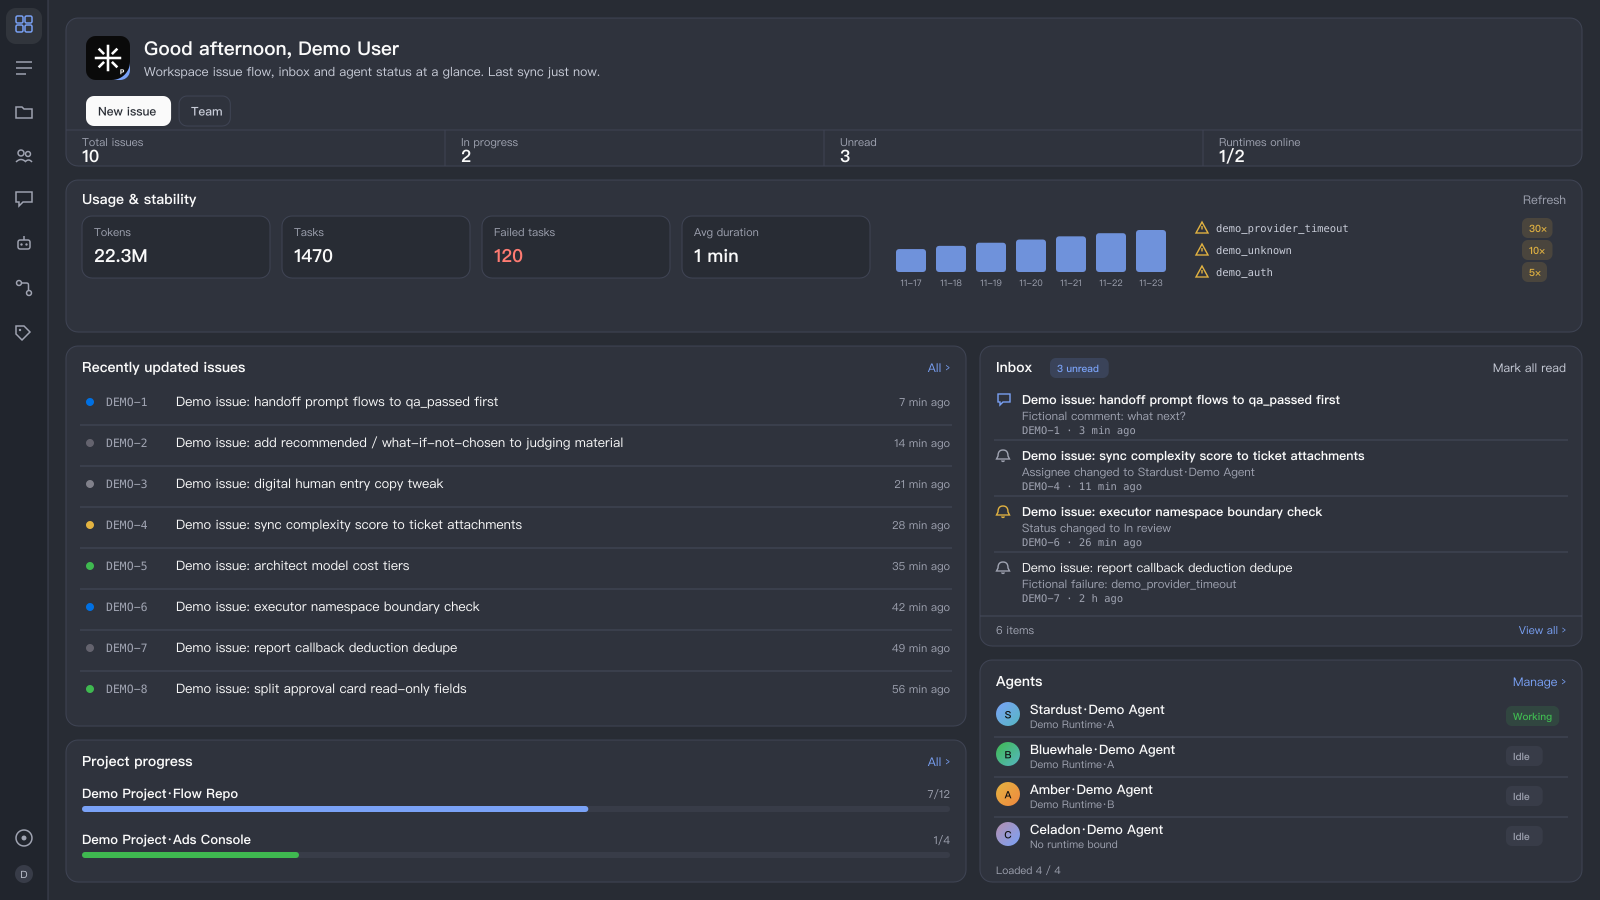
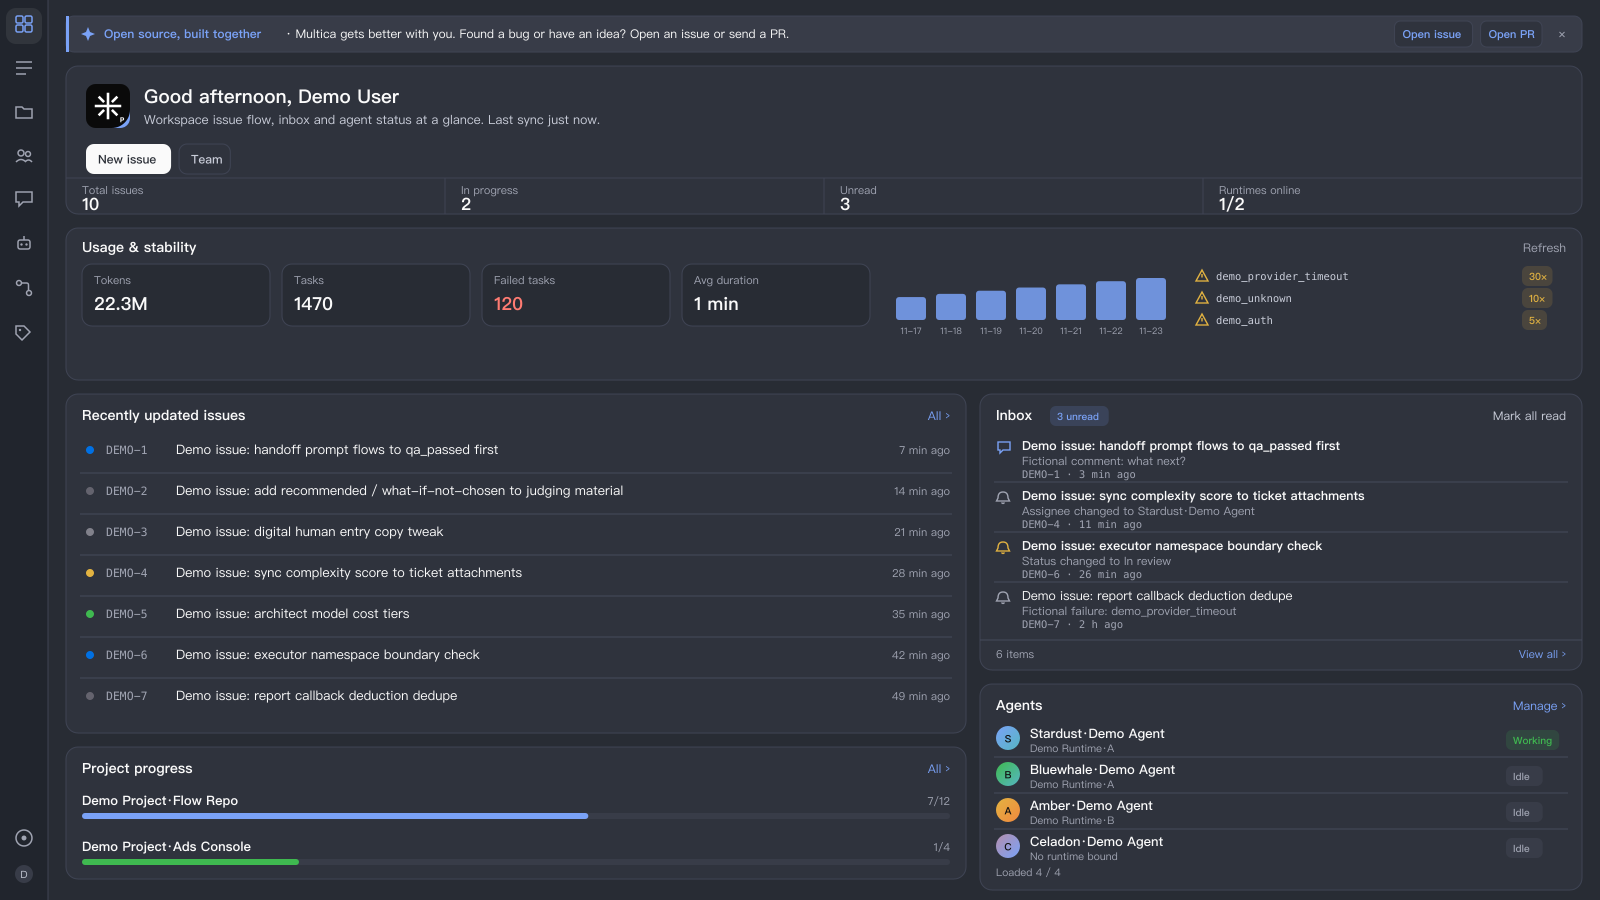
feat(overview): 概览页新增可关闭的 GitHub 共创横幅（v0.3.12）
样式与 agent-usage 共创横幅一致：提 Issue / 提 PR 入口 + ✕ 关闭；
关闭状态经 connections.preferences RPC 持久化到 daemon 侧
connections.json，重启后不再显示。同步双语文案、文档与脱敏媒体。

diff --git a/client/workbench/CommunityBanner.tsx b/client/workbench/CommunityBanner.tsx
@@ -1,0 +1,117 @@
+import { t } from "./i18n";
+import { openExternalUrl, useRpc } from "@getpaseo/plugin/client";
+import { Icon } from "@getpaseo/plugin/client/ui";
+import { useState } from "react";
+import { Pressable, Text, View } from "react-native";
+import { preferencesSaveRpc } from "../../shared/contracts";
+import { useUi } from "./bits";
+import { useWorkbench } from "./context";
+
+const REPOSITORY_URL = "https://github.com/CasonMo/paseo-multica";
+const ISSUE_URL = `${REPOSITORY_URL}/issues/new`;
+const PULL_REQUEST_URL = `${REPOSITORY_URL}/pulls`;
+
+function openCommunityLink(url: string) {
+  void openExternalUrl(url).catch((error) => {
+    console.error("Failed to open Multica community link", error);
+  });
+}
+
+export function CommunityBanner() {
+  const { theme, compact, connections, reloadConnections, toast } = useWorkbench();
+  const ui = useUi(theme, compact);
+  const savePrefs = useRpc(preferencesSaveRpc);
+  const [dismissing, setDismissing] = useState(false);
+  if (!connections || connections.coCreateDismissed) return null;
+
+  const dismiss = async () => {
+    if (dismissing) return;
+    setDismissing(true);
+    try {
+      await savePrefs({ coCreateDismissed: true });
+      await reloadConnections();
+    } catch {
+      toast.error(t("Community.8"));
+    } finally {
+      setDismissing(false);
+    }
+  };
+
+  return (
+    <View
+      style={{
+        flexDirection: "row",
+        alignItems: "center",
+        flexWrap: "wrap",
+        gap: 8,
+        backgroundColor: ui.c.surface2,
+        borderColor: ui.c.border,
+        borderLeftColor: ui.c.accent,
+        borderWidth: 1,
+        borderLeftWidth: 3,
+        borderRadius: 8,
+        paddingHorizontal: 12,
+        paddingVertical: 8,
+      }}
+    >
+      <View style={{ flex: 1, minWidth: compact ? "100%" : 240, flexDirection: "row", alignItems: "center", gap: 8 }}>
+        <Icon name="Sparkles" size={15} color={ui.c.accent} />
+        <Text style={{ flex: 1, fontSize: 12, color: ui.c.fg, lineHeight: 18 }}>
+          <Text style={{ color: ui.c.accent, fontWeight: "700" }}>{t("Community.1")}</Text>
+          {` · ${t("Community.2")}`}
+        </Text>
+      </View>
+      <View style={{ flexDirection: "row", alignItems: "center", gap: 8, flexWrap: "wrap" }}>
+        <Pressable
+          accessibilityRole="link"
+          accessibilityLabel={t("Community.5")}
+          hitSlop={6}
+          onPress={() => openCommunityLink(ISSUE_URL)}
+          style={({ pressed }) => [
+            {
+              minHeight: 34,
+              justifyContent: "center",
+              paddingHorizontal: 8,
+              paddingVertical: 5,
+              borderRadius: 6,
+              backgroundColor: ui.c.surface1,
+            },
+            pressed && ui.s.pressed,
+          ]}
+        >
+          <Text style={{ fontSize: 11, fontWeight: "600", color: ui.c.accent }}>{t("Community.3")}</Text>
+        </Pressable>
+        <Pressable
+          accessibilityRole="link"
+          accessibilityLabel={t("Community.6")}
+          hitSlop={6}
+          onPress={() => openCommunityLink(PULL_REQUEST_URL)}
+          style={({ pressed }) => [
+            {
+              minHeight: 34,
+              justifyContent: "center",
+              paddingHorizontal: 8,
+              paddingVertical: 5,
+              borderRadius: 6,
+              backgroundColor: ui.c.surface1,
+            },
+            pressed && ui.s.pressed,
+          ]}
+        >
+          <Text style={{ fontSize: 11, fontWeight: "600", color: ui.c.accent }}>{t("Community.4")}</Text>
+        </Pressable>
+      </View>
+      <Pressable
+        accessibilityRole="button"
+        accessibilityLabel={t("Community.7")}
+        accessibilityState={{ disabled: dismissing }}
+        disabled={dismissing}
+        hitSlop={8}
+        onPress={() => void dismiss()}
+        style={{ minWidth: 28, minHeight: 28, alignItems: "center", justifyContent: "center", paddingHorizontal: 4, paddingVertical: 2 }}
+      >
+        <Text style={{ fontSize: 12, color: ui.c.muted }}>✕</Text>
+      </Pressable>
+    </View>
+  );
+}

diff --git a/server/store.ts b/server/store.ts
@@ -21,6 +21,7 @@ interface StoredState {
   version: 1;
   activeServerId: string | null;
   allowInternal: boolean;
+  coCreateDismissed: boolean;
   servers: StoredServer[];
 }
 
@@ -60,7 +61,7 @@ function seedState(): StoredState {
     createdAt: now,
     updatedAt: now,
   };
-  return { version: 1, activeServerId: server.id, allowInternal: false, servers: [server] };
+  return { version: 1, activeServerId: server.id, allowInternal: false, coCreateDismissed: false, servers: [server] };
 }
 
 function coerceState(raw: unknown): StoredState {
@@ -86,7 +87,7 @@ function coerceState(raw: unknown): StoredState {
     typeof input.activeServerId === "string" && servers.some((server) => server.id === input.activeServerId)
       ? input.activeServerId
       : servers[0].id;
-  return { version: 1, activeServerId, allowInternal: input.allowInternal === true, servers };
+  return { version: 1, activeServerId, allowInternal: input.allowInternal === true, coCreateDismissed: input.coCreateDismissed === true, servers };
 }
 
 async function load(): Promise<StoredState> {
@@ -139,6 +140,7 @@ function view(state: StoredState): ConnectionsView {
     activeServerId: state.activeServerId,
     servers: state.servers.map(toView),
     allowInternal: state.allowInternal,
+    coCreateDismissed: state.coCreateDismissed,
     storePath: storeFile,
   };
 }
@@ -245,9 +247,10 @@ export async function updateWorkspaceMeta(serverId: string, workspaceId: string,
   });
 }
 
-export async function savePreferences(input: { allowInternal?: boolean }): Promise<ConnectionsView> {
+export async function savePreferences(input: { allowInternal?: boolean; coCreateDismissed?: boolean }): Promise<ConnectionsView> {
   return mutate((state) => {
     if (typeof input.allowInternal === "boolean") state.allowInternal = input.allowInternal;
+    if (typeof input.coCreateDismissed === "boolean") state.coCreateDismissed = input.coCreateDismissed;
     return view(state);
   });
 }

diff --git a/client/workbench/i18n-resources.ts b/client/workbench/i18n-resources.ts
@@ -988,6 +988,16 @@ export const resources = {
       "24": "server"
     }
   },
+  "Community": {
+    "1": "Open source, built together",
+    "2": "Multica gets better with you. Found a bug or have an idea? Open an issue or send a PR.",
+    "3": "Open issue",
+    "4": "Open PR",
+    "5": "Open a GitHub issue",
+    "6": "Open a GitHub pull request",
+    "7": "Dismiss co-creation banner",
+    "8": "Could not dismiss the banner. Try again."
+  },
   "ServerErr": {
     "1": "Enter a server name",
     "2": "Invalid server URL",
@@ -1995,6 +2005,16 @@ export const resources = {
       "21": "Multica 连接设置",
       "24": "服务器"
     }
+  },
+  "Community": {
+    "1": "开源共创",
+    "2": "Multica 因你而更好。发现问题或有新想法？欢迎提 Issue、提 PR。",
+    "3": "提 Issue",
+    "4": "提 PR",
+    "5": "在 GitHub 提 Issue",
+    "6": "在 GitHub 提 Pull Request",
+    "7": "关闭共创提示",
+    "8": "关闭提示失败，请重试"
   },
   "ServerErr": {
     "1": "请填写服务器名称",

diff --git a/client/workbench/pages/Overview.tsx b/client/workbench/pages/Overview.tsx
@@ -6,6 +6,7 @@ import { asList, asRecord, num, usePagedQuery, useQuery } from "../api";
 import { useWorkbench } from "../context";
 import { relTime, type Agent, type AgentRuntime, type InboxItem, type Issue, type Project } from "../model";
 import { AgentRow, InboxRow, IssueRow } from "../parts";
+import { CommunityBanner } from "../CommunityBanner";
 import { UsageCard } from "../UsageCard";
 
 export function OverviewPage() {
@@ -75,6 +76,7 @@ export function OverviewPage() {
 
   return (
     <ScrollView contentContainerStyle={{ padding: compact ? 12 : 18, gap: 14, paddingBottom: 40 }}>
+      <CommunityBanner />
       <Card
         ui={ui}
         padded={false}

diff --git a/shared/contracts.ts b/shared/contracts.ts
@@ -21,6 +21,7 @@ export const connectionsViewSchema = z.object({
   activeServerId: z.string().nullable(),
   servers: z.array(serverViewSchema),
   allowInternal: z.boolean(),
+  coCreateDismissed: z.boolean(),
   storePath: z.string(),
 });
 export type ConnectionsView = z.infer<typeof connectionsViewSchema>;
@@ -127,7 +128,7 @@ export const workspaceSelectRpc = defineRpc({
 
 export const preferencesSaveRpc = defineRpc({
   name: "connections.preferences",
-  input: z.object({ allowInternal: z.boolean().optional() }),
+  input: z.object({ allowInternal: z.boolean().optional(), coCreateDismissed: z.boolean().optional() }),
   output: connectionsViewSchema,
 });
 

diff --git a/shared/version.ts b/shared/version.ts
@@ -1,2 +1,2 @@
 /** 插件版本：发布时与 package.json 的 version 保持同步（更新检查用于和 registry pin 的版本比较）。 */
-export const PLUGIN_VERSION = "0.3.11";
+export const PLUGIN_VERSION = "0.3.12";

diff --git a/OVERVIEW.md b/OVERVIEW.md
@@ -70,12 +70,17 @@ its own key, workspace and internal-route preference.
 - **Loading behavior** — paginated lists fetch 20–50 items first and prefetch the next
   page near the bottom, with a load-more button and a loaded/total footer. Endpoints
   without upstream pagination (inbox, chat) load in a single request and say so.
+- **Co-creation banner** — the overview page shows a one-line banner inviting GitHub
+  issues and pull requests. The links open github.com in the system browser only when
+  clicked. Dismissing it persists `coCreateDismissed` in the daemon-side
+  `connections.json`, so it stays hidden across restarts.
 
 ## Where your data goes
 
 - The only network destination is the Multica base URL you configure. There is no
   telemetry, no hidden network call, no dynamic code execution, and nothing is downloaded
-  or installed while the plugin runs.
+  or installed while the plugin runs. The co-creation banner's issue / PR buttons open
+  GitHub in the system browser on click; the plugin itself sends no data there.
 - The API key is stored only on the daemon host, in `~/.paseo/multica/connections.json`
   with file mode `0600`. It is never sent to the interface; settings show a masked form
   such as `mul_…abcd`. The daemon attaches it as an `Authorization: Bearer` header on

diff --git a/README.md b/README.md
@@ -9,7 +9,8 @@ cloud (`https://api.multica.ai`) and any self-hosted Multica server.
 
 - **Overview** — workspace stats, usage & stability (7-day tokens / tasks / failure
   reasons / average duration), recently updated issues, project progress, inbox preview
-  and agent roster in an equal-height two-column grid.
+  and agent roster in an equal-height two-column grid. A dismissible co-creation banner
+  links to GitHub issues / PRs; once dismissed it stays hidden across restarts.
 - **Issues** — six-column kanban with per-column pagination and server-side column
   totals, plus a 36px list view; search, project filter and saved views (all / mine /
   active / done / closed).
